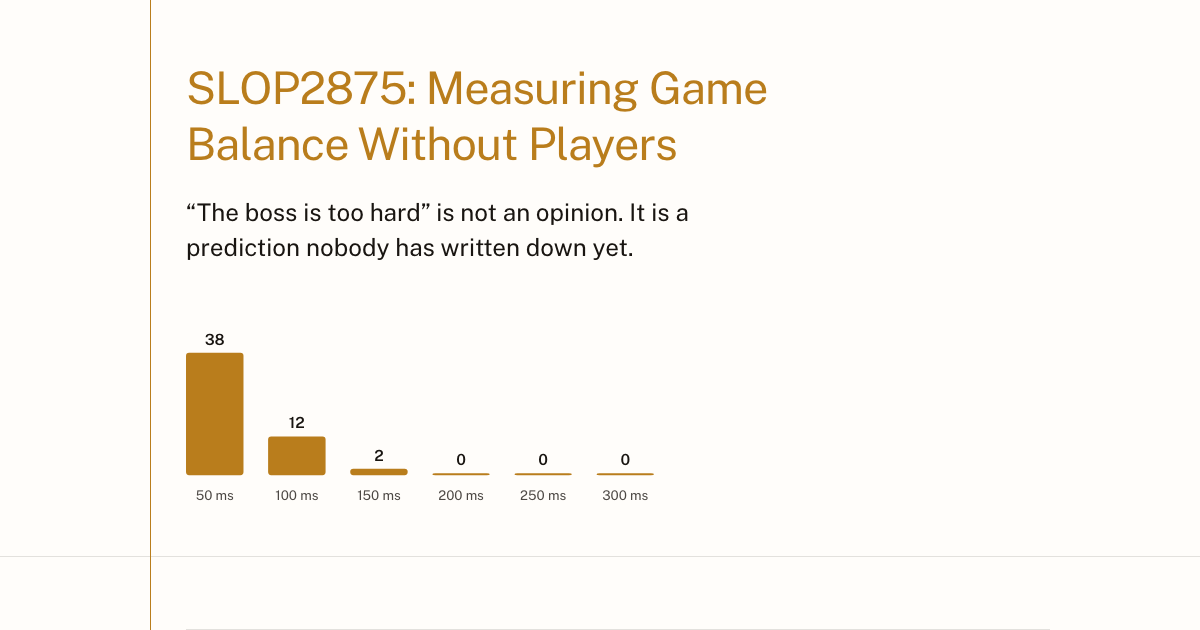
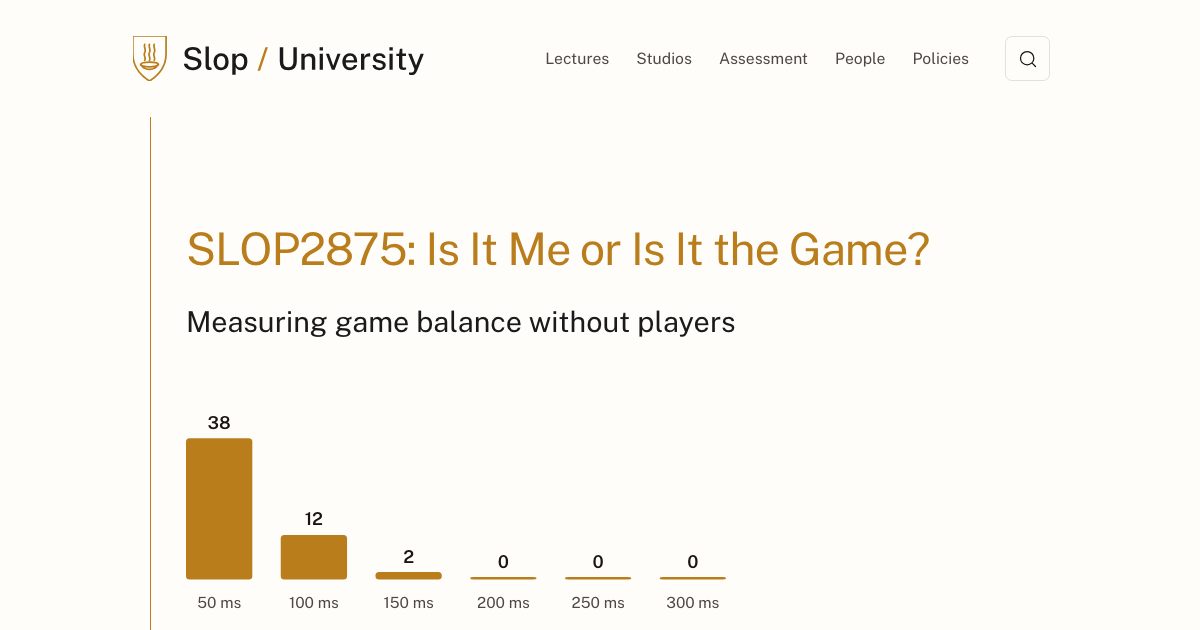
Rename the course: Is It Me or Is It the Game?
Anson's two objections to "Measuring Game Balance Without Players": a real
university could offer it, which is the brief's test for too broad, and
nobody would want to click it. The three exemplar titles all carry something
a course committee would not write: an attitude, an outrageous promise, a
named audience. The new title is the question a player asks after dying to a
boss; the twelve weeks measure the "me" side (reaction time, weeks 3, 5, 11)
and the "game" side (dead options, gates, dominant strategies, weeks 6 to 8).

The platform has no subtitle field and renders the description directly under
the title, so the description now opens by answering the title. The old title
survives as the subtitle on the social card only. Content of the twelve weeks
is unchanged.

diff --git a/src/course-config.ts b/src/course-config.ts
@@ -48,16 +48,16 @@ export const slopCourseMetaSchema = z
 // digit to your course's level (and `level` to match); keep the other three.
 export const courseMeta = slopCourseMetaSchema.parse({
   code: "SLOP2875",
-  title: "Measuring Game Balance Without Players",
+  title: "Is It Me or Is It the Game?",
   session: "Semester 1",
   year: 2027,
   level: 2,
   startDate: "2027-02-22",
   endDate: "2027-05-28",
   description:
-    "Most balance arguments are arguments about taste. This course treats every " +
-    "balance decision in a single-player game as a hypothesis you can test by " +
-    "simulation: build the instrument, simulate the players, read the distribution, " +
-    "defend one number. Nobody plays anything until week ten.",
+    "You died to the boss again. Either you are too slow or the boss is too big, " +
+    "and arguing will not settle it. This course finds out by simulation, in " +
+    "one single-player game: build the instrument, simulate the players, read the " +
+    "distribution, defend one number. Nobody plays anything until week ten.",
   tags: ["game design", "measurement", "simulation"],
 }) satisfies CourseMetaInput;
